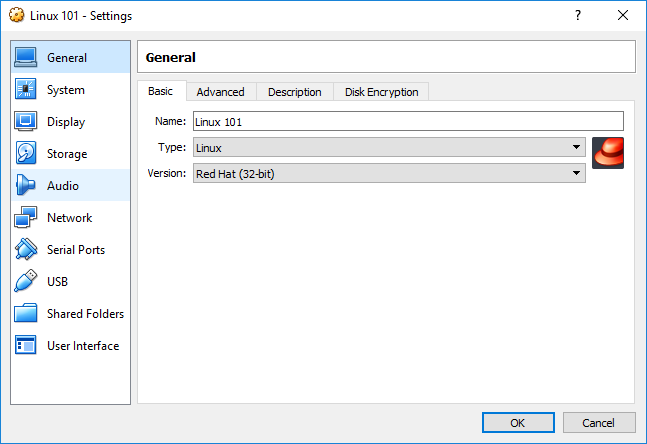
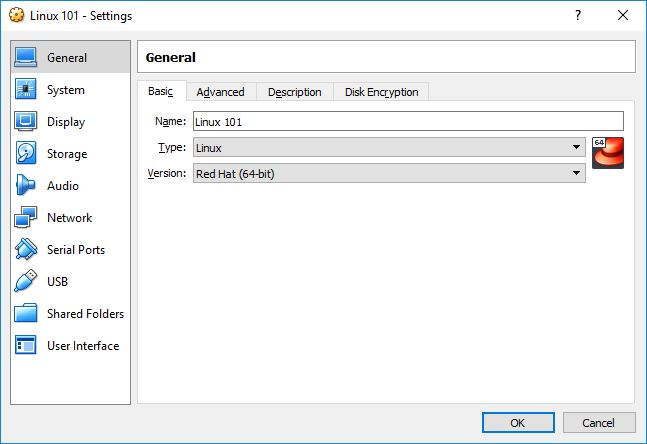
removed Confusing images and adjusted the procedure

diff --git a/README.md b/README.md
@@ -42,7 +42,6 @@ Fill it up by the following:
 |Memory Size|4096 MB|
 |Hard Disk|Create a virtual disk now|
 
-![alt text][pre04-FillUp]
 
 Then Click Create to create the Virtual disk:
 
@@ -53,7 +52,6 @@ Then Click Create to create the Virtual disk:
 | Hard disk file type | VDI (VirtualBox Disk Image) |
 | Storage on physical hard disk | Dynamically Allocated |
 
-![alt text][pre05-Storage]
 
 Then click Create and you have successfully created your VM now we just need some few changes in network settings
 
@@ -98,7 +96,6 @@ You have finally set-up your VM now we will install your server,Click [here](htt
 
 [pre03-ExpertMode]: https://github.com/ajohnsc/L101/blob/master/pictures/pre03-ExpertMode.PNG
 
-[pre04-FillUp]: https://github.com/ajohnsc/L101/blob/master/pictures/pre04-FillUp.PNG
 
 [pre05-Storage]: https://github.com/ajohnsc/L101/blob/master/pictures/pre05-Storage.PNG
 

diff --git a/activities/README.md b/activities/README.md
@@ -30,11 +30,11 @@ This means it the server is installing this will take a while, after installatio
 
 ![alt text][pre16-Reboot]
 
-Before you press reboot remove first the ISO by clicking on Menu Tab > Devices > Optical Drives > Remove disk from virtual drives (Force Unmount if needed)
+Before you press reboot remove first the ISO by clicking on Virtual Box Menu Bar Devices > Optical Drives > Remove disk from virtual drives (Force Unmount if needed)
 
 Then Click Reboot
 
-(If The Vm takes time to reboot just click in Menu tab > Machine > Reset)
+(If The VM takes time to reboot just click on VirtualBox Menu Bar Machine > Reset)
 
 If you successfully followed all the steps you can Login with this credentials:
 
